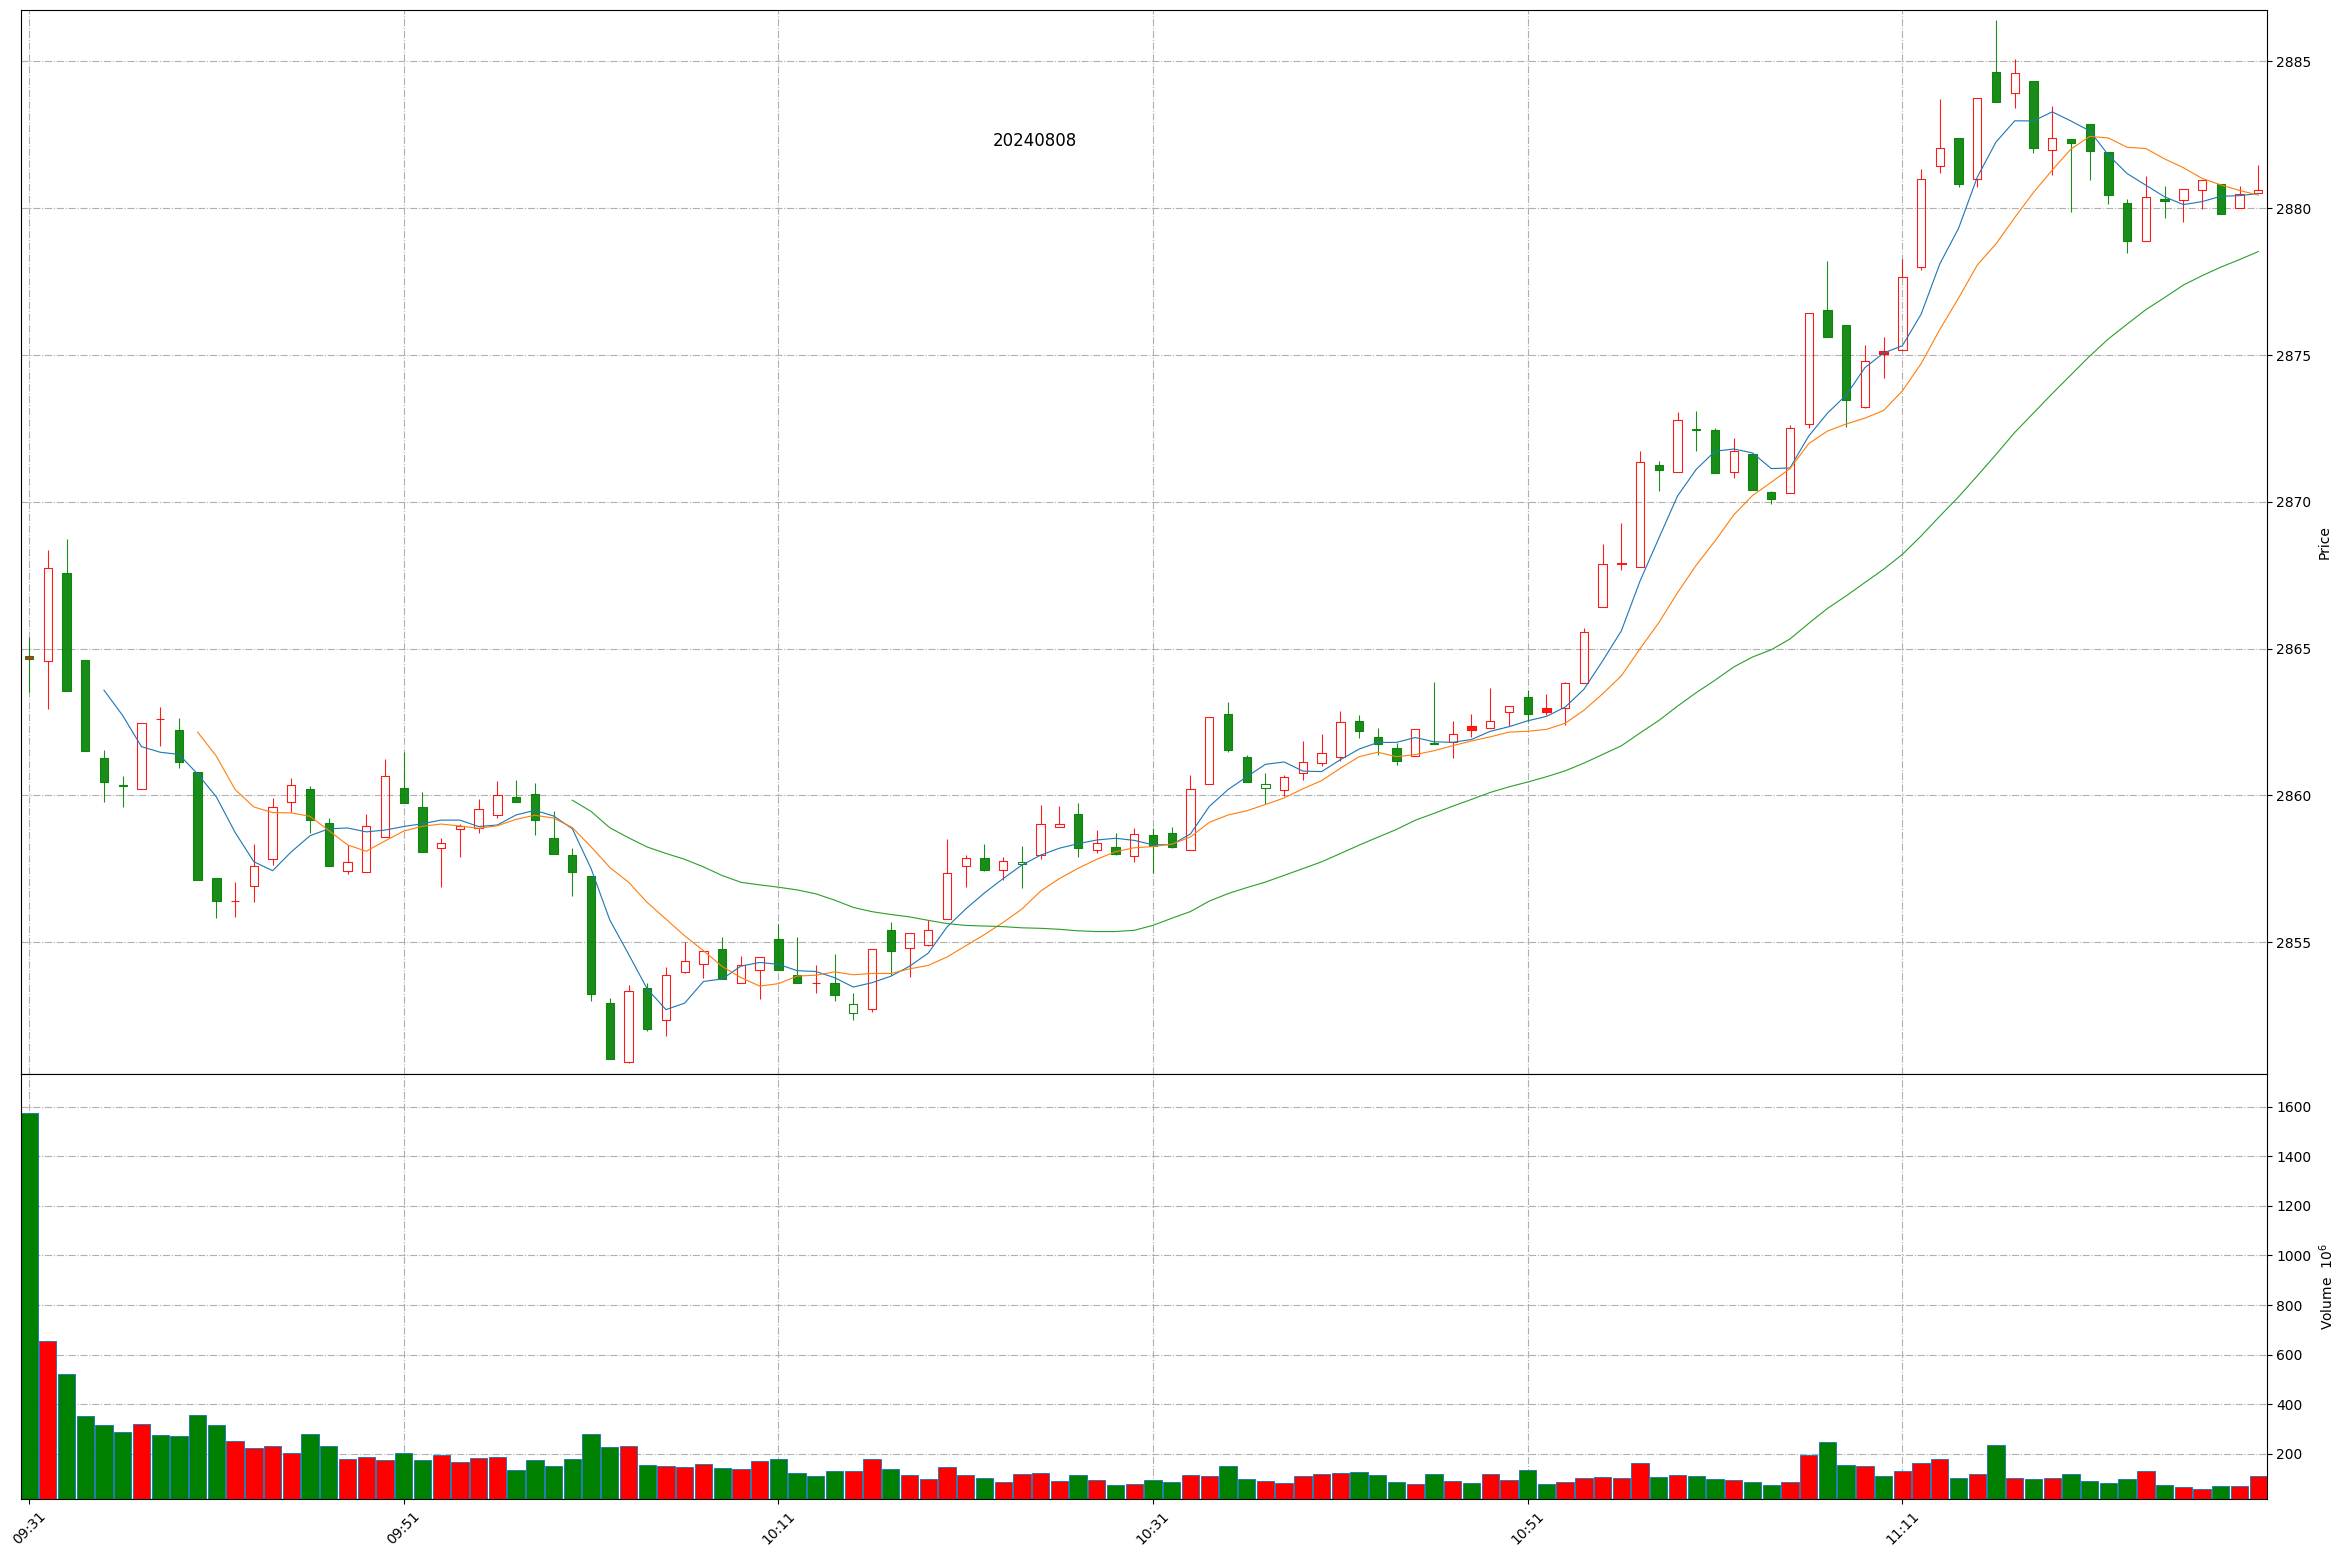
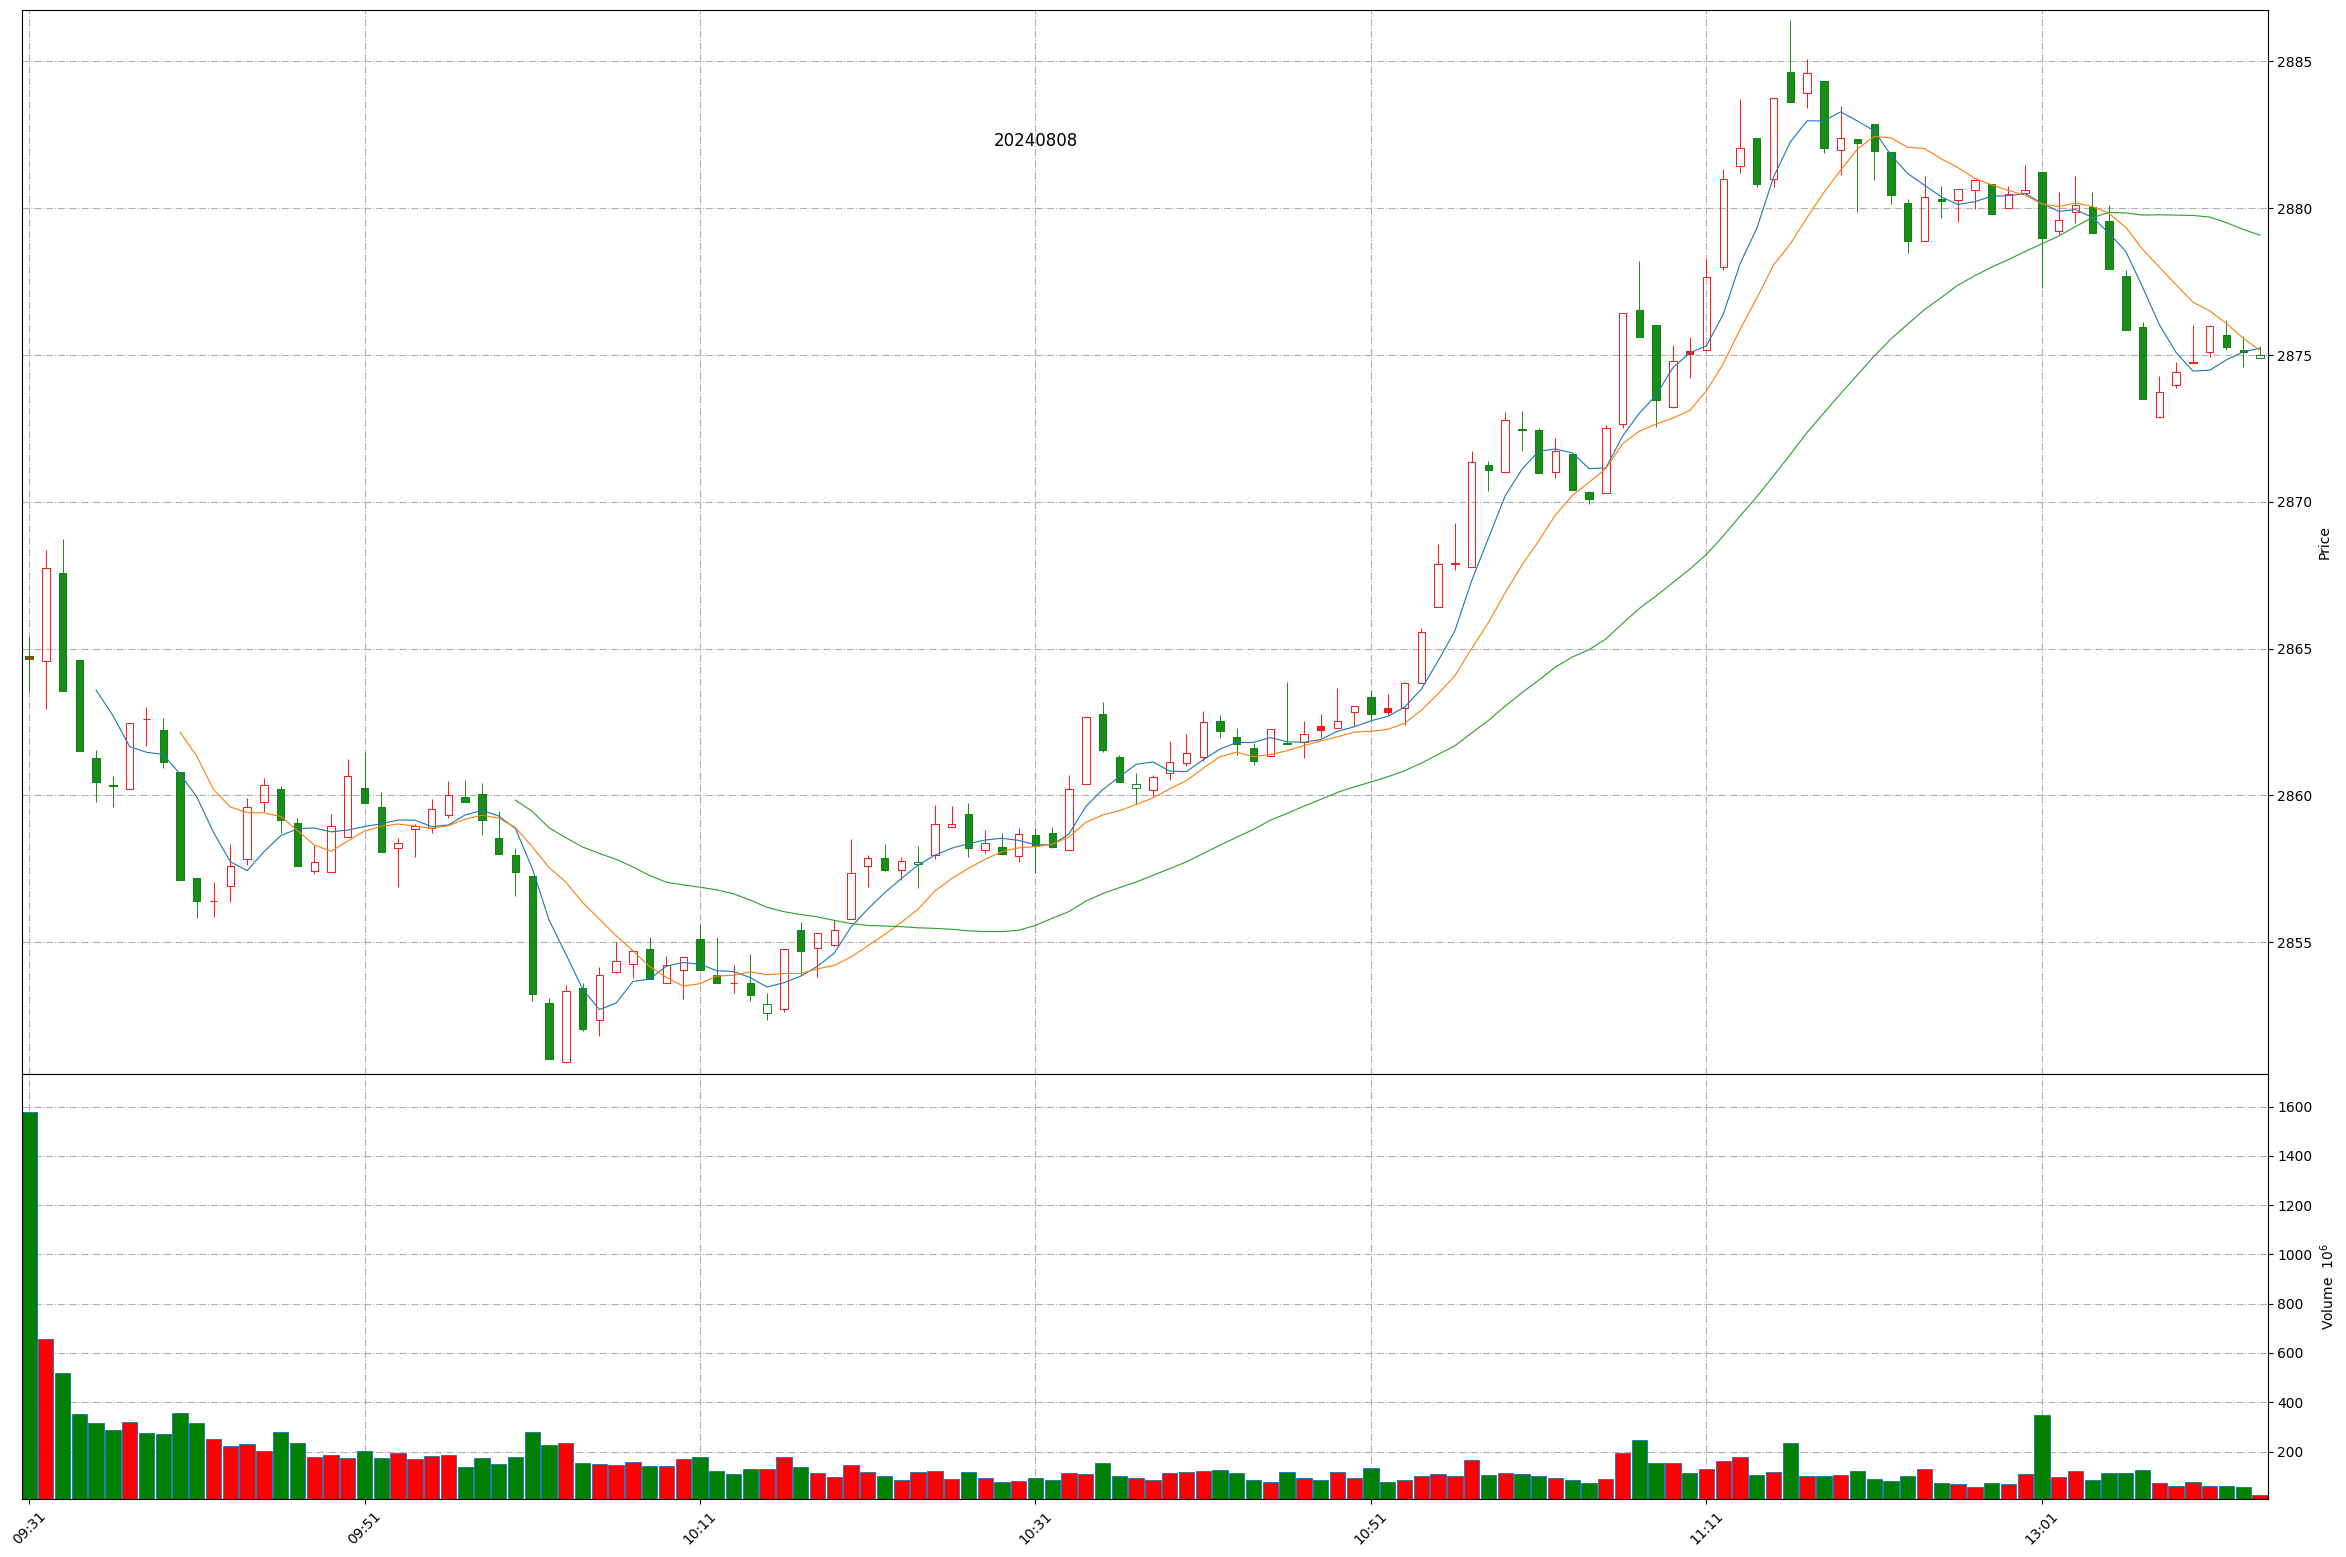
Github action update at 2024-08-08 13:13:38.

diff --git a/README.md b/README.md
@@ -1,11 +1,11 @@
 
 # Daily-A-share-market-quotes 每日 A 股指数（5min 更新）- 20240808
 
-### 上证指数 20240808 11:36
+### 上证指数 20240808 13:13
 ![](./fig/2024/8/20240808-sh000001.png)
 
-### 深证成指 20240808 11:36
+### 深证成指 20240808 13:13
 ![](./fig/2024/8/20240808-sz399001.png)
 
-### 北证50 20240808 11:36
+### 北证50 20240808 13:13
 ![](./fig/2024/8/20240808-bj899050.png)
